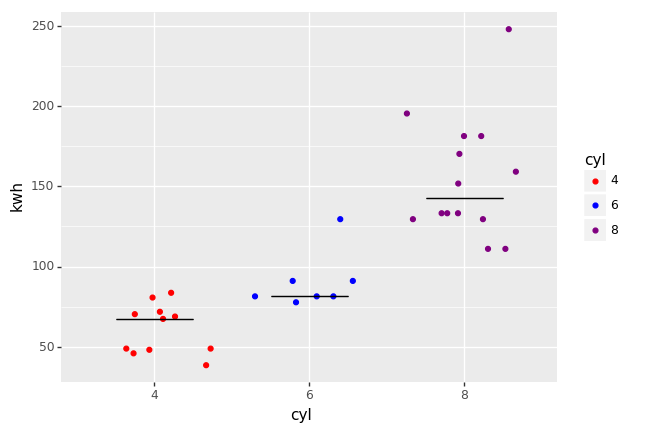
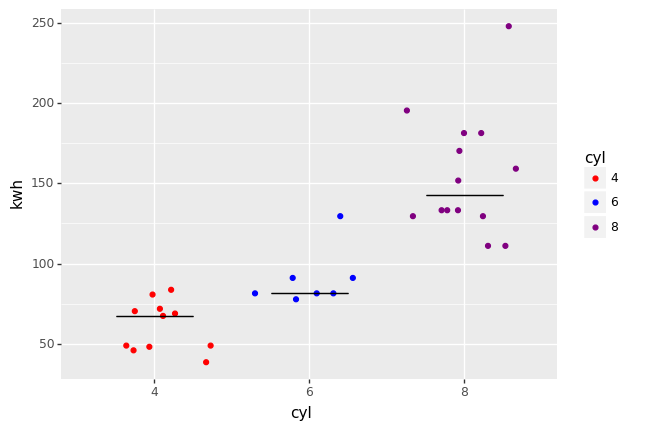
plotnine bitrot fights

diff --git a/src/dppd_plotnine/dppd_plotnine.py b/src/dppd_plotnine/dppd_plotnine.py
@@ -52,6 +52,9 @@ for name, cls in iter_elements():
 
     @register_verb(name, types=p9.ggplot)
     def add_geom(plot, *args, cls=cls, **kwargs):
+        if args and isinstance(args[0], dict):
+            args = list(args)
+            args[0] = p9.aes(**args[0])
         return plot + cls(*args, **kwargs)
 
     if name.startswith("geom"):
@@ -97,7 +100,7 @@ for name, cls in iter_elements():
                 mapped = {k: k for k in cls.REQUIRED_AES if k in mapped}
                 non_mapped["data"] = data
 
-            return plot + cls(mapped, **non_mapped)
+            return plot + cls(p9.aes(**mapped), **non_mapped)
 
         add_funcs[add_name] = add_add_geom
 
